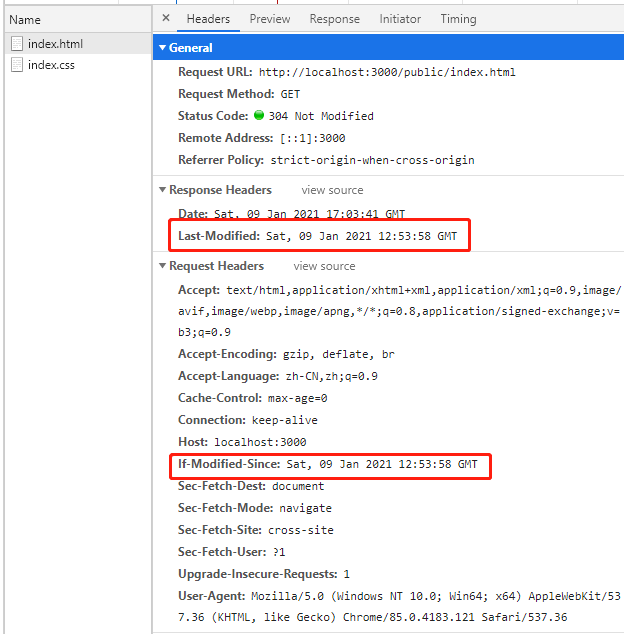
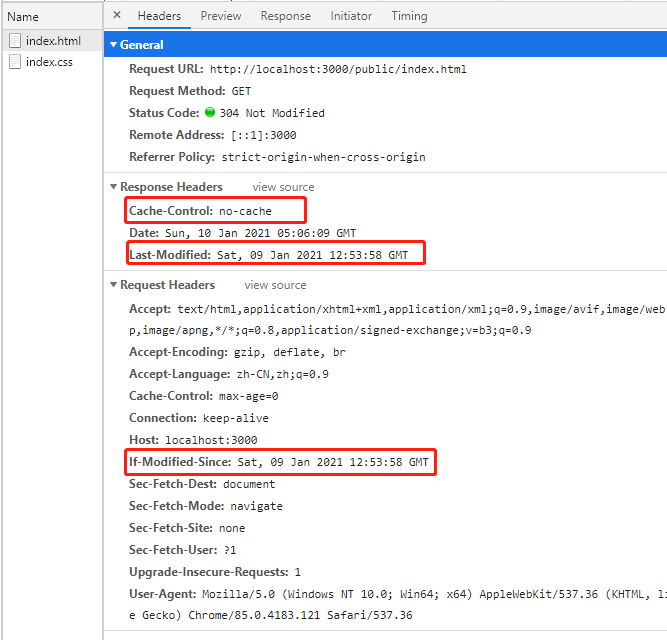
Update: 前端缓存

Changed region(s): [[0.0, 0.0, 1.0, 1.0]]

diff --git a/面试/前端缓存/example/xieshang_lastmodified_cache.js b/面试/前端缓存/example/xieshang_lastmodified_cache.js
@@ -15,7 +15,8 @@ const server = http.createServer((req, res) => {
         } else {
             if(stats && stats.isFile()) {
                 console.log(filePath)
-                const mtime = stats.ctime.toUTCString();
+                res.setHeader('Cache-Control', 'no-cache');
+                const mtime = stats.mtime.toUTCString();
                 if(req.headers['if-modified-since'] == mtime) {
                     res.statusCode = 304;
                     res.end();

diff --git a/面试/前端缓存/example/xieshang_etag_cache.js b/面试/前端缓存/example/xieshang_etag_cache.js
@@ -16,6 +16,7 @@ const server = http.createServer((req, res) => {
         } else {
             if(stats && stats.isFile()) {
                 console.log(filePath)
+                res.setHeader('Cache-Control', 'no-cache');
                 const etag = crypto.createHash('md5').update(fs.readFileSync(filePath)).digest('base64');
                 if(req.headers['if-none-match'] == etag) {
                     res.statusCode = 304;

diff --git a/面试/前端缓存/前端缓存.md b/面试/前端缓存/前端缓存.md
@@ -3,6 +3,8 @@
 缓存: cache   
 浏览器存储：sessionStorage, localStorage, cookie, indexedDB...
 
+我们所谓的做缓存，其实并不是说在服务端自己去“做缓存”，而是通过服务端告诉浏览器是否要是用缓存，和怎么去使用缓存的一些规则而已
+
 ## 1.1 什么时候会缓存
 针对某一个资源，比如index.html。如果设置了缓存策略，第一次请求该资源后，浏览器会将其缓存。在后续的请求时，如果缓存未过时，则拿缓存里的资源且状态码为200。具体如何判断缓存是否过时，就要看使用的缓存类型了。
 
@@ -10,20 +12,9 @@
 ## 1.2 缓存位置：缓存区
 浏览器有缓存区。优先存储在memory cache，其次是disk cache。
 
-# 2. 缓存的种类
-## 2.1 强制缓存
-### 2.1.1 什么是强制缓存
-- 第一次访问服务器取到数据之后，在过期时间之内不会再去重复请求，而是直接拿到浏览器缓存的资源。
-- 注意：直接访问的资源不会走缓存，只有引用的资源走缓存。
-
-#### 设置头：
-```js
-// 设置后：第一次请求后30秒内再发请求都走浏览器缓存
-res.setHeader('Cache-Control', 'max-age=30'); // max-age单位为秒，相对时间
-res.setHeader('Expires', new Date(Date.now() + 1000 * 30).toUTCString()); // expires针对低版本浏览器，且设置的
-```
-
-#### 例子：
+## 1.3 准备工作
+这里我们使用node来写一个静态文件服务器，方便看缓存效果。目录结构如下：
+![缓存example](../../Others/images/缓存-example.png)
 ```js
 const fs = require('fs');
 const http = require('http');
@@ -41,11 +32,9 @@ const server = http.createServer((req, res) => {
             res.end('Not found!');
         }
         if(stats?.isFile()) {
-            console.log(filePath)
-            // 设置后：第一次请求后30秒内再发请求都走浏览器缓存
-            res.setHeader('Cache-Control', 'max-age=30'); // max-age单位为秒，相对时间
-            res.setHeader('Expires', new Date(Date.now() + 1000 * 30).toUTCString()); // expires针对低版本浏览器，且设置的时绝对时间
-            fs.createReadStream(filePath).pipe(res);
+            /* Start: 设置缓存策略 */
+            // 缓存策略
+            /* End: 设置缓存策略 */
         } else {
             res.statusCode = 404;
             res.end('Not found!')
@@ -54,77 +43,94 @@ const server = http.createServer((req, res) => {
 });
 
 server.listen(3000, console.log('server listening on 3000'));
+
 ```
 
-#### 运行结果：  
+# 2. 缓存的种类
+## 2.1 强制缓存
+- 第一次访问服务器取到数据之后，在过期时间之内不会再去重复请求，而是直接拿到浏览器缓存的资源。
+- 注意：直接访问的资源不会走缓存，只有引用的资源走缓存。
+
+#### 设置头：
+```js
+// 设置后：第一次请求后30秒内再发请求都走浏览器缓存
+res.setHeader('Cache-Control', 'max-age=30'); // max-age单位为秒，相对时间
+res.setHeader('Expires', new Date(Date.now() + 1000 * 30).toUTCString()); // expires针对低版本浏览器，且设置的
+```
+
+#### 例子：
+```js
+// 完整代码见：同级目录example/qiangzhi_cache.js
+/* Start: 设置缓存策略 */
+    console.log(filePath)
+    // 设置后：第一次请求后30秒内再发请求都走浏览器缓存
+    res.setHeader('Cache-Control', 'max-age=30'); // max-age单位为秒，相对时间
+    res.setHeader('Expires', new Date(Date.now() + 1000 * 30).toUTCString()); // expires针对低版本浏览器，且设置的时绝对时间
+    fs.createReadStream(filePath).pipe(res);
+/* End: 设置缓存策略 */
+```
+
+#### 运行结果：30s内发送第二次请求
 1）node端：
 直接访问的资源不会走缓存，所以还是由node服务器返回。
 ![node服务-强制缓存](../../Others/images/强制缓存1.png)
 
-2）浏览器：第二次请求   
+2）浏览器：   
 ![浏览器-强制缓存](../../Others/images/强制缓存-浏览器.png)
 
-### 2.1.2 缺陷
+#### 缺陷：
 - 超出设置的时间后，请求必然走服务器。若此时文件依然未修改，就会造成浪费。
 - 没超出设置时间时，文件修改了，但依然走缓存，与实际不符。
 
-### 2.1.3 使用场景
+#### 使用场景：
 需要长时间缓存的东西，比如百度的logo
 
 ## 2.2 协商缓存
 ### 2.2.1 什么是协商缓存
+浏览器缓存了文件，但是具体用不用这个缓存，需要每次询问服务器，服务器再告诉你该不该使用缓存，这就是协商缓存。
+
 向服务器发送请求，服务器会根据这个请求的request header的一些参数来判断是否命中协商缓存，如果命中，则返回304状态码并带上新的response header通知浏览器从缓存中读取资源；
+
+做协商缓存之前，我们先把强缓存关掉：
+```
+res.setHeader('Cache-Control', 'no-cache')
+```
+- no-cache: 表示浏览器依然会缓存文件，但是每次还是要去访问服务器
+- no-store：表示直接告诉浏览器，不要缓存文件，每次都请求服务器
 
 ### 2.2.2 协商缓存 - Last-Modified
 根据资源的修改时间进行比较。
 #### 设置头：
 ```js
 res.setHeader('Last-Modified', mtime)
-req.headers['if-modified-since'] == mtime
+req.headers['if-modified-since']
 ```
 
 #### 例子：
 ```js
-const fs = require('fs');
-const http = require('http');
-const url = require('url');
-const path = require('path');
-
-// 手写一个简单的静态服务器
-const server = http.createServer((req, res) => {
-    const { pathname } = url.parse(req.url);
-    const filePath = path.join(__dirname, pathname);
-
-    fs.stat(filePath, (err, stats) => {
-        if(err) {
-            res.statusCode = 404;
-            res.end('Not found!');
-        } else {
-            if(stats && stats.isFile()) {
-                console.log(filePath)
-                const mtime = stats.ctime.toUTCString();
-                if(req.headers['if-modified-since'] == mtime) {
-                    res.statusCode = 304;
-                    res.end();
-                } else {
-                    res.setHeader('Last-Modified', mtime)
-                    fs.createReadStream(filePath).pipe(res);
-                }
-            } else {
-                res.statusCode = 404;
-                res.end('Not found!')
-            }
-        }
-    })
-});
-
-server.listen(3000, console.log('server listening on 3000'));
+// 完整代码见：同级目录example/xieshang_lastmodified_cache.js
+/* Start: 设置缓存策略 */
+    console.log(filePath)
+    res.setHeader('Cache-Control', 'no-cache');
+    const mtime = stats.ctime.toUTCString();
+    if(req.headers['if-modified-since'] == mtime) {
+        res.statusCode = 304;
+        res.end();
+    } else {
+        res.setHeader('Last-Modified', mtime)
+        fs.createReadStream(filePath).pipe(res);
+    }
+/* End: 设置缓存策略 */
 ```
-#### 运行结果：
-第二次请求时，先向服务器确认index.html是否过时。若服务器返回304，再走缓存。而index.css直接走了缓存。
+#### 运行过程：
+- 浏览器第一次请求`index.html`文件；
+- 服务器将`index.html + 时间标识`返回。时间标识告诉浏览器这个文件最近的`修改时间`；
+- 浏览器收到服务器返回的`index.html + 时间标识`，并将`index.html`存储在缓存区中；
+- 浏览器第二次请求时，会把时间标识也带上；
+- 服务器拿到请求，对比`时间标识`和`index.html`最近的修改时间。如果相等，告诉浏览器文件未修改，走浏览器缓存，状态码置为`304`。
 
 1）node端：
-直接访问的资源不会走缓存，所以还是由node服务器返回。
+
 ![node服务-协商缓存](../../Others/images/协商1-node.png)
 
 2）浏览器：第二次请求
@@ -133,11 +139,14 @@ server.listen(3000, console.log('server listening on 3000'));
 ![浏览器-协商缓存](../../Others/images/协商1-浏览器1.png)
 
 #### 缺陷：
-- 精度只达到秒级；
-- 只会和上一次比较。若当前次和上上次修改一致，仍然不会走缓存。
+- 修改时间是秒级的，如果1s内做了修改，从时间上是认为没有修改的;
+- 先修改一次，然后撤销修改，时间变化了，但文件其实没变，浏览器会认为文件修改了;
+- CND分发，放到别的服务器上的时间，文件时间可能不一样。
 
 ### 2.2.3 协商缓存 - Etag
-Etag：根据文件内容，摘要生成一个md5值。
+为了弥补`Last-Modified`方式的缺陷，我们的解决方案是根据文件内容生成一个MD5戳，那么这个MD5戳如何去生成？我们需要用到一个node的核心模块，crypto，专用于处理加密的包。具体的介放到了后面。
+
+摘要出来的MD5戳，我们会用一个`header`头叫`Etag`来告诉浏览器，Etag生成的策略每个厂都不一样，总之是根据文件内容，摘要生成一个md5值。
 
 #### 设置头：
 ```js
@@ -146,47 +155,25 @@ req.headers['if-none-match']
 ```
 #### 例子：
 ```js
-const fs = require('fs');
-const http = require('http');
-const url = require('url');
-const path = require('path');
-const crypto = require('crypto');
-
-// 手写一个简单的静态服务器
-const server = http.createServer((req, res) => {
-    const { pathname } = url.parse(req.url);
-    const filePath = path.join(__dirname, pathname);
-
-    fs.stat(filePath, (err, stats) => {
-        if(err) {
-            res.statusCode = 404;
-            res.end('Not found!');
-        } else {
-            if(stats && stats.isFile()) {
-                console.log(filePath)
-                const etag = crypto.createHash('md5').update(fs.readFileSync(filePath)).digest('base64');
-                if(req.headers['if-none-match'] == etag) {
-                    res.statusCode = 304;
-                    res.end();
-                } else {
-                    res.setHeader('Etag', etag)
-                    fs.createReadStream(filePath).pipe(res);
-                }
-            } else {
-                res.statusCode = 404;
-                res.end('Not found!')
-            }
-        }
-    })
-});
-
-server.listen(3000, console.log('server listening on 3000'));
+// 完整代码见：同级目录example/xieshang_etag_cache.js
+/* Start: 设置缓存策略 */
+    console.log(filePath)
+    res.setHeader('Cache-Control', 'no-cache');
+    const etag = crypto.createHash('md5').update(fs.readFileSync(filePath)).digest('base64');
+    if(req.headers['if-none-match'] == etag) {
+        res.statusCode = 304;
+        res.end();
+    } else {
+        res.setHeader('Etag', etag)
+        fs.createReadStream(filePath).pipe(res);
+    }
+/* End: 设置缓存策略 */
 ```
-#### 运行结果：  
-第二次请求时，先向服务器确认index.html是否过时。若服务器返回304，再走缓存。
+#### 运行过程：
+只是将`Last-Modified`方式的`时间戳`换成了一个`MD5戳`，其余一致。
 
 1）node端：
-直接访问的资源不会走缓存，所以还是由node服务器返回。
+
 ![node服务-协商缓存](../../Others/images/协商2-node.png)
 
 2）浏览器：第二次请求
@@ -197,12 +184,19 @@ server.listen(3000, console.log('server listening on 3000'));
 # 3. 最佳做法：强制与协商并存
 ![结合使用](../../Others/images/缓存.jpg)
 
-# 4. 补充：加密
+# 4. 补充：加密算法
+具体讲之前，先给大家讲讲什么是加密算法。我们平时老是说`md5加密`，`sha1/sha256加密`，其实都是不太准确的，准确来说，`md5`是`摘要算法`，`sha1/sha256`是`加盐算法`。
+
+加密算法是指，加密后可解密的算法，例如我们熟知的对称加密算法（公私钥）。
 ## 4.1 MD5摘要算法
-- 不能解密，加密不可逆，因此不算加密算法。（网上很多都说md5加密算法，这种说法不对）
-- 不安全，容易被反解。
+- 不能解密，加密不可逆，因此不算加密算法。（网上很多都说md5加密算法，这种说法不对。网上说的解密其实是暴力碰撞，专业点叫撞库）；
+- 具有雪崩效应，意思是如果内容有一点改变，MD5摘要值将完全不同；
+- 不安全，容易被反解。 解决方案就是下面的加盐算法或者说多轮次MD5摘要。
+```js
+crypto.createHash('md5').update('123').digest('base64')
+```
 ## 4.2 加盐算法（如SHA1、SHA256）
-- 一种摘要算法；
+- 其实也是一种摘要算法；比一般的摘要算法多了盐值。在加密过程中，是根据`摘要 + 盐值`来加密的；
 - 盐值一般存储在服务器，别人拿不到；
 - 如：'123' + '盐值' ==> 摘要的结果。
 
